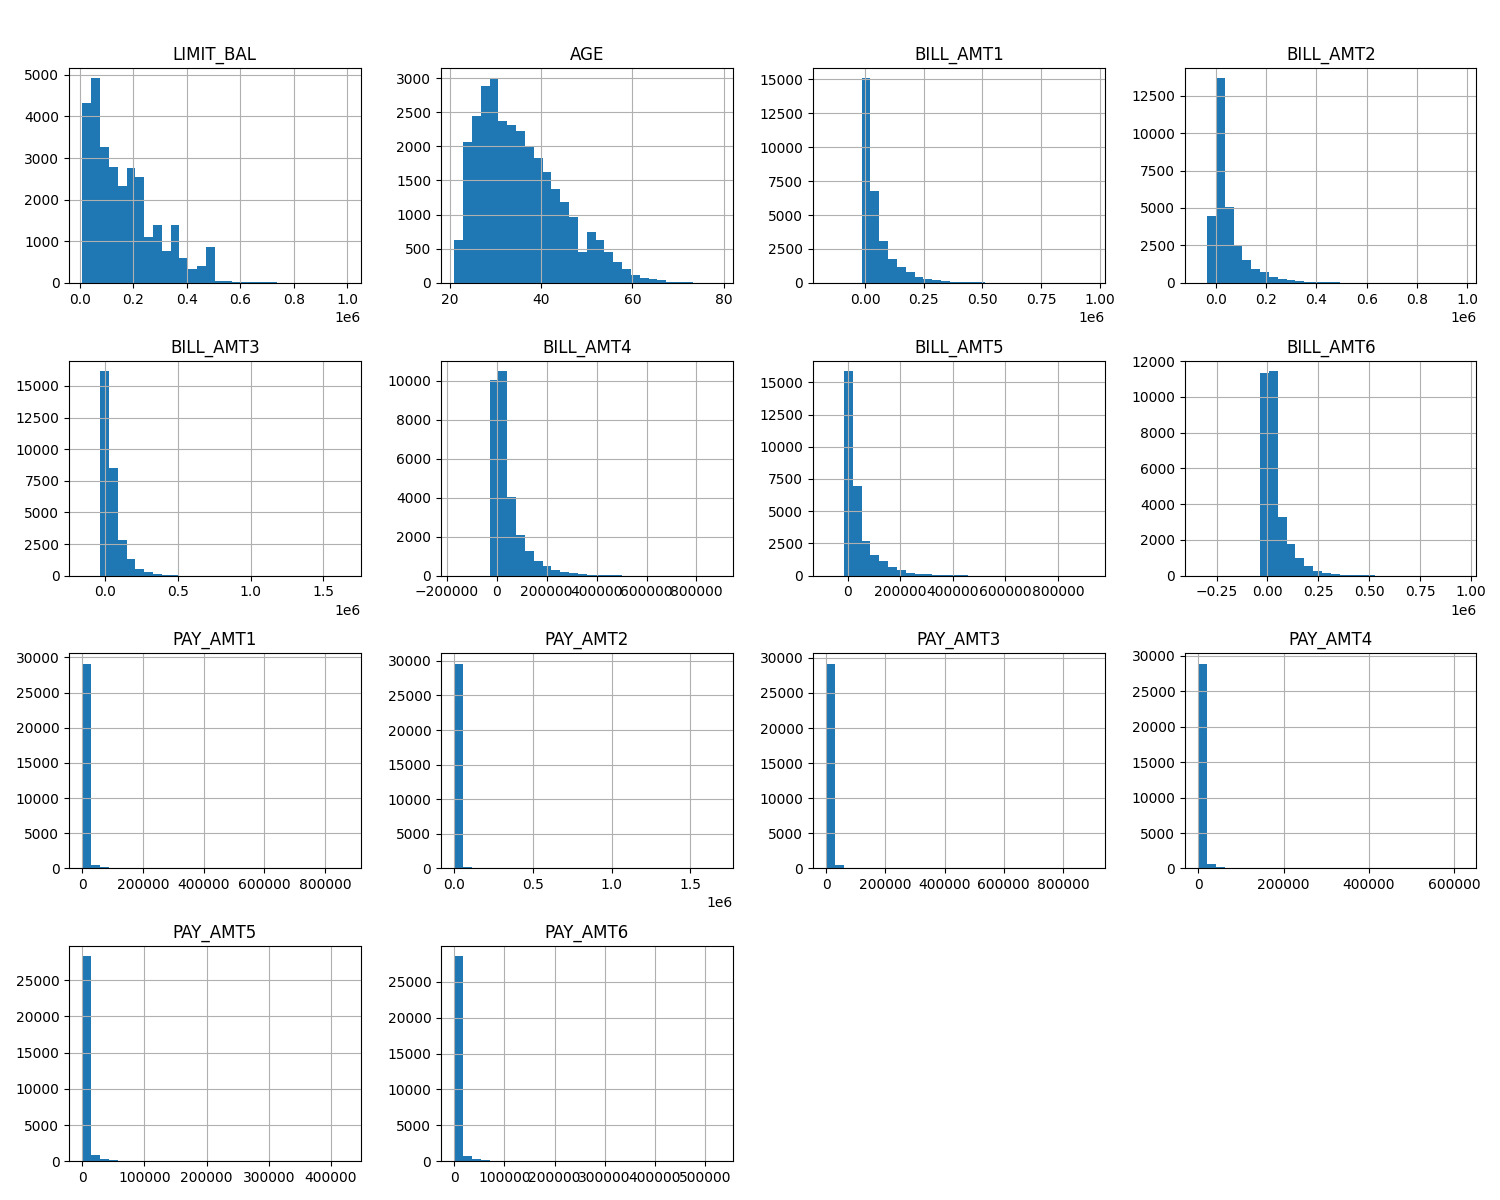
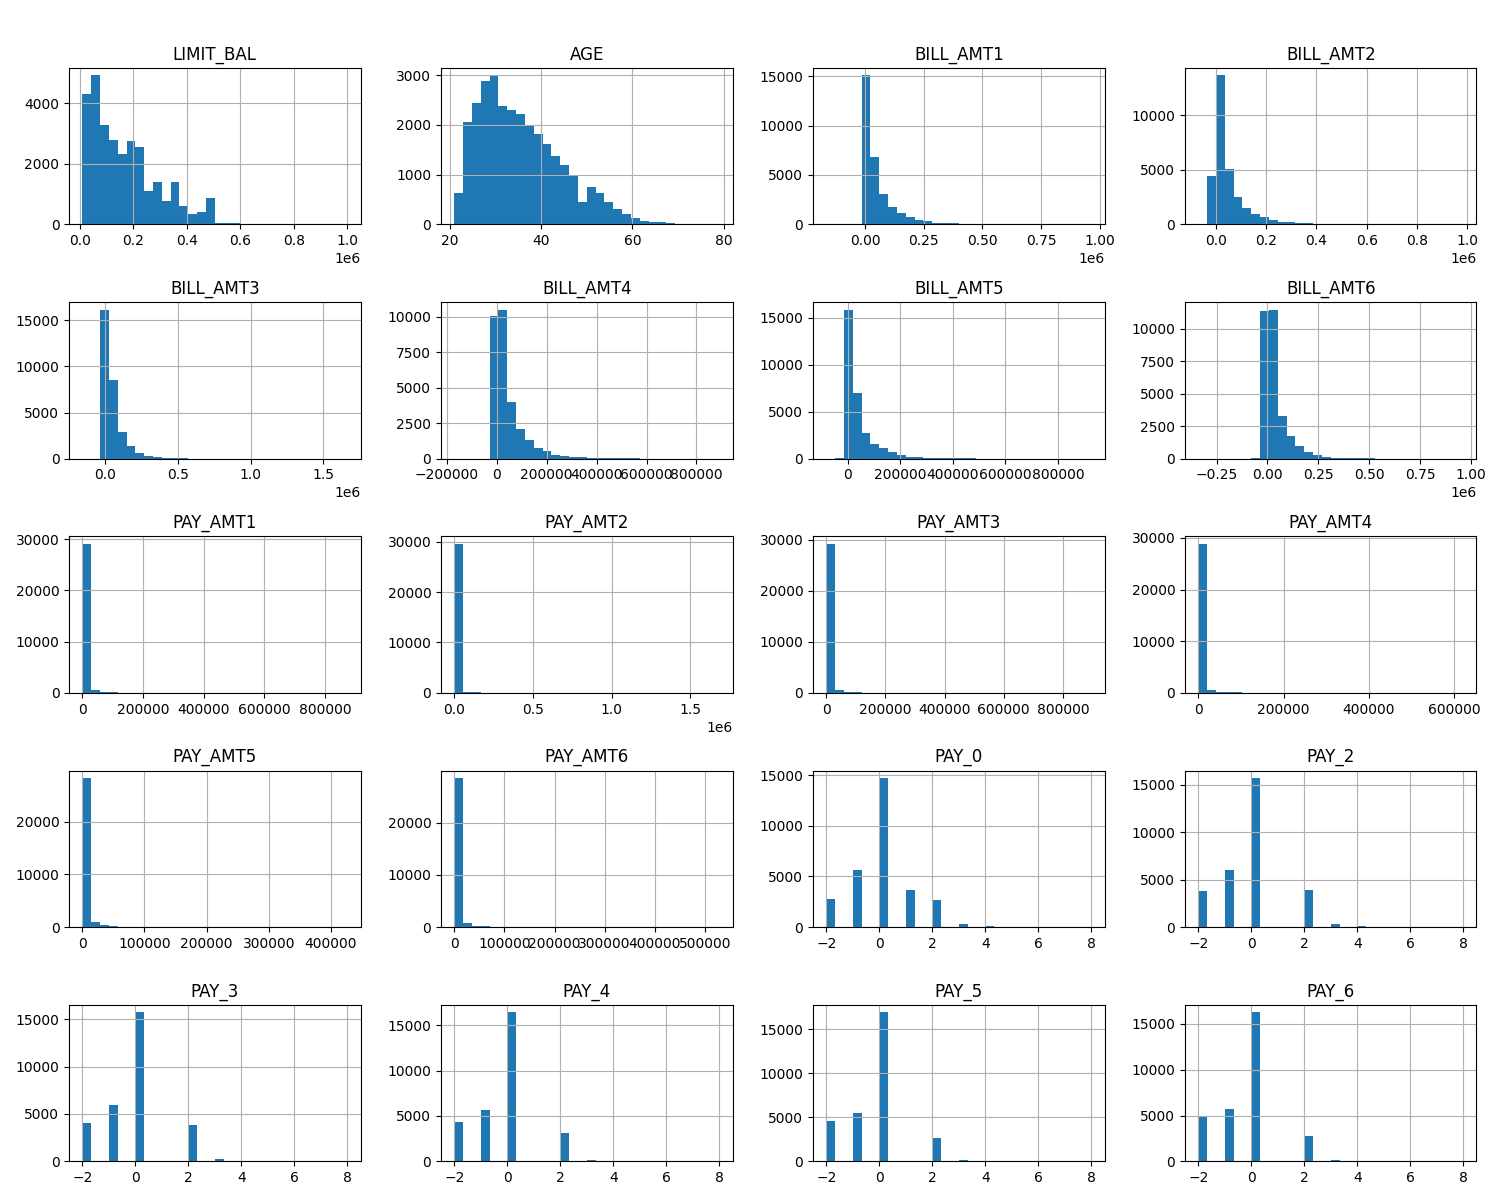
outlayer

diff --git a/preprocessing.py b/preprocessing.py
@@ -18,9 +18,20 @@ COL_NAMES = {
 
 # dataset mentions  SEX, EDUCATION, MARRIAGE as categorical with defined category
 # (e.g., EDUCATION: 1=graduate school, 2=university...). 
+<<<<<<< Updated upstream
 # PAY_0..PAY_6 are repayment status codes (-2 to 9), not continuous measurements
 CATEGORICAL_COLS = ["SEX", "EDUCATION", "MARRIAGE",
                     "PAY_0", "PAY_2", "PAY_3", "PAY_4", "PAY_5", "PAY_6"]
+=======
+CATEGORICAL_COLS = ["SEX", "EDUCATION", "MARRIAGE"]
+>>>>>>> Stashed changes
+
+# BILL_AMT1-6 = bill amount in month 1/month 2 (one month ago)/...
+# PAY_AMT1–6 = how much did the customer actually paid in month 1/month 2 (one month ago)/...
+# PAY_0, PAY_2–6 = repayment status each month (PAY_0 is most recent, oddly named):
+    # -2 = No consumption (nothing to pay), -1	Paid in full, 0	Minimum payment made (revolving credit), 1	1 month late, 2	2 months late
+# So a customer with PAY_0=2, PAY_2=1, PAY_3=0 was 2 months late most recently, 1 month late before that, and paid minimally the month before that
+
 
 NUMERIC_COLS = ["LIMIT_BAL", "AGE",
                 "BILL_AMT1", "BILL_AMT2", "BILL_AMT3",
@@ -80,6 +91,7 @@ def preprocessing(df):
 
     return X_train, X_test, y_train, y_test, feature_names, scaler
 
+<<<<<<< Updated upstream
 
 def run():
     # get dataset from UCI and rename columns 
@@ -88,6 +100,120 @@ def run():
     y = dataset.data.targets
     df = pd.concat([X, y], axis=1)
     df = df.rename(columns=COL_NAMES)
+=======
+    return X, y, numeric_cols
+
+def create_preprocessor(numeric_cols):
+    """
+    Create preprocessing pipeline:
+    - scale numerical features
+    - one-hot encode categorical features
+    """
+    preprocessor = ColumnTransformer([
+        (
+            'num',
+            StandardScaler(),
+            numeric_cols
+        ),
+        (
+            'cat',
+            OneHotEncoder(
+                drop='first',
+                handle_unknown='ignore'
+            ),
+            CATEGORICAL_COLS
+        )
+    ])
+
+    return preprocessor
+
+# Columns where capping makes sense (continuous, not bounded ordinal)
+
+NUMERIC_COLS = ["LIMIT_BAL", "AGE",
+                "BILL_AMT1", "BILL_AMT2", "BILL_AMT3",
+                "BILL_AMT4", "BILL_AMT5", "BILL_AMT6",
+                "PAY_AMT1", "PAY_AMT2", "PAY_AMT3",
+                "PAY_AMT4", "PAY_AMT5", "PAY_AMT6",
+                "PAY_0", "PAY_2", "PAY_3", "PAY_4", "PAY_5", "PAY_6"
+                ]
+
+
+def cap_outliers(X_train, X_val, X_test, cols):
+    """
+    IQR-based capping fitted on train, applied to all splits.
+    """
+
+    # deciding to not capp the CREDIT_UTILIZATION because it vary a lot but still is very meaningful
+    EXCLUDE = {"PAY_0", "PAY_2", "PAY_3", "PAY_4", "PAY_5", "PAY_6", "PAYMENT_RATIO", "MONTHS_DELAYED", "CREDIT_UTILIZATION"}
+    COLS_TO_CAP = [c for c in cols if c not in EXCLUDE]
+
+    bounds = {}
+    for col in COLS_TO_CAP:
+        if col not in X_train.columns:
+            continue
+        Q1 = X_train[col].quantile(0.25)
+        Q3 = X_train[col].quantile(0.75)
+        IQR = Q3 - Q1
+        lower = Q1 - 1.5 * IQR
+        upper = Q3 + 1.5 * IQR
+        bounds[col] = (lower, upper)
+
+    for df in [X_train, X_val, X_test]:
+        for col, (lower, upper) in bounds.items():
+            df[col] = df[col].clip(lower, upper)
+
+    return X_train, X_val, X_test, bounds
+
+
+
+def test_train_split(X,y):
+    """
+    Split data into:
+    - train
+    - validation
+    - test
+    """
+    # First split:
+    # 60% train
+    # 40% temporary
+    X_train, X1_test, y_train, y1_test = train_test_split(
+        X,
+        y,
+        test_size=0.4,
+        stratify=y,
+        random_state=RANDOM_STATE
+    )
+
+    # Second split:
+    # 20% validation
+    # 20% test
+    X_val, X_test, y_val, y_test = train_test_split(
+        X1_test,
+        y1_test,
+        test_size=0.5,
+        stratify=y1_test,
+        random_state=RANDOM_STATE
+    )
+
+    # Print dataset sizes
+    print("\nDataset Sizes")
+    print("Train:", X_train.shape)
+    print("Validation:", X_val.shape)
+    print("Test:", X_test.shape)
+
+    return X_train, y_train, X_val, X_test, y_val, y_test
+
+def run():
+    """
+    Complete preprocessing pipeline.
+    """
+     # Load and clean dataset
+    X, y, numeric_cols = load_prepare_data()
+    
+    # Split dataset
+    X_train, y_train,  X_val, X_test, y_val, y_test =test_train_split(X,y)
+    X_train, X_val, X_test, _ = cap_outliers(X_train, X_val, X_test, numeric_cols)
+>>>>>>> Stashed changes
 
     X_train, X_test, y_train, y_test, feature_names, scaler = preprocessing(df)
     return X_train, X_test, y_train, y_test, feature_names, scaler

diff --git a/phases/baseline_model.py b/phases/baseline_model.py
@@ -1,0 +1,30 @@
+from sklearn.dummy import DummyClassifier
+from sklearn.metrics import classification_report, roc_auc_score
+from preprocessing import RANDOM_STATE, run as run_preprocessing
+
+def preprocess_special():
+    X_train, y_train, X_val, X_test, y_val, y_test, preprocessor = run_preprocessing()
+
+    return X_train, X_test, y_train, y_test
+
+def run():
+    """
+    Random baseline model
+    """
+    X_train, X_test, y_train, y_test = preprocess_special()
+
+    # Setup the Random Baseline (Uniform strategy)
+    random_model = DummyClassifier(strategy='uniform', random_state=RANDOM_STATE)
+    random_model.fit(X_train, y_train)
+
+    # Make predictions
+    y_pred_random = random_model.predict(X_test)
+    y_prob_random = random_model.predict_proba(X_test)[:, 1]
+
+    # Evaluate
+    print("--- Random Baseline Results ---")
+    print(f"AUC Score: {roc_auc_score(y_test, y_prob_random):.3f}")
+    print(classification_report(y_test, y_pred_random))
+
+if __name__ == "__main__":
+    run()
